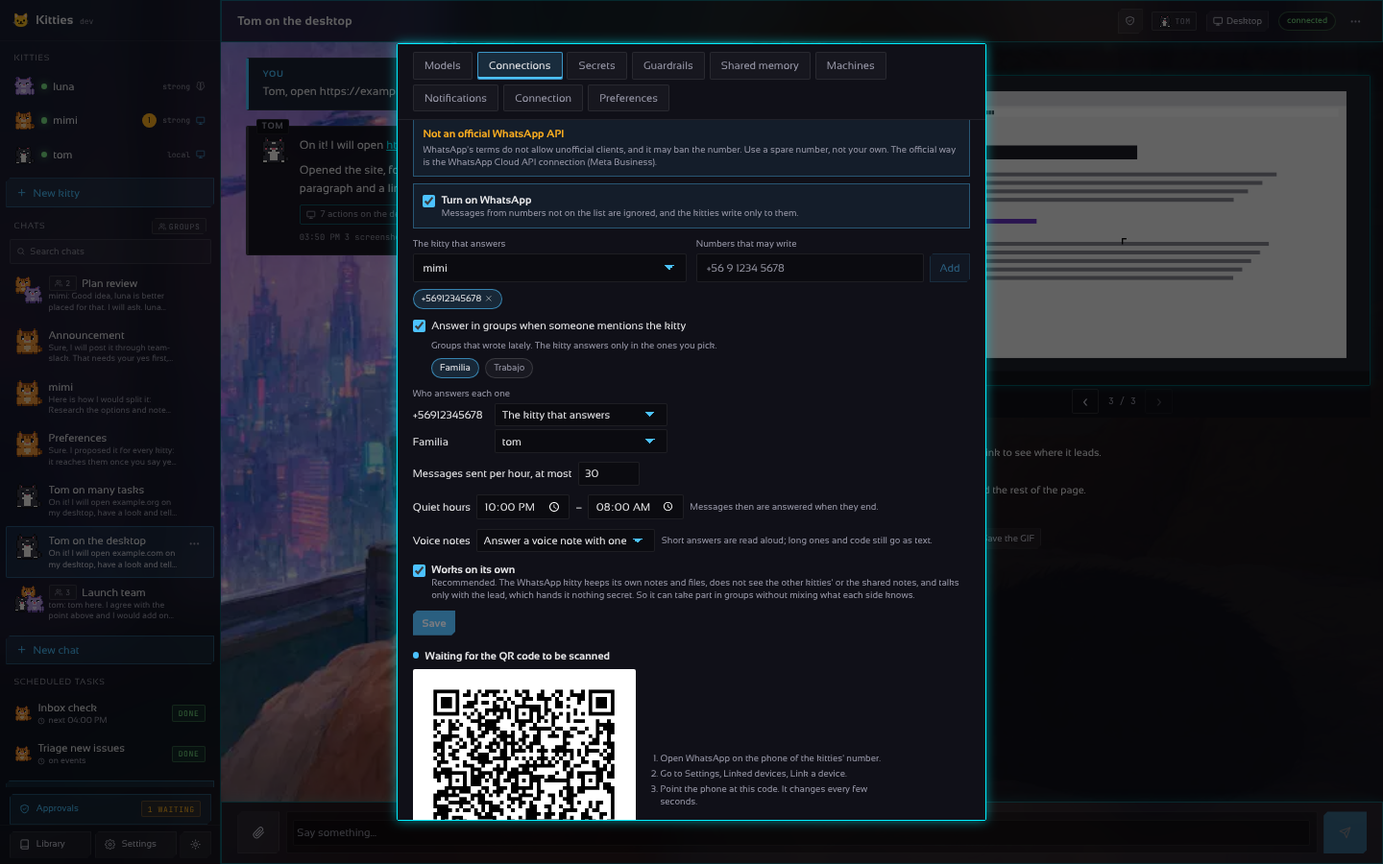
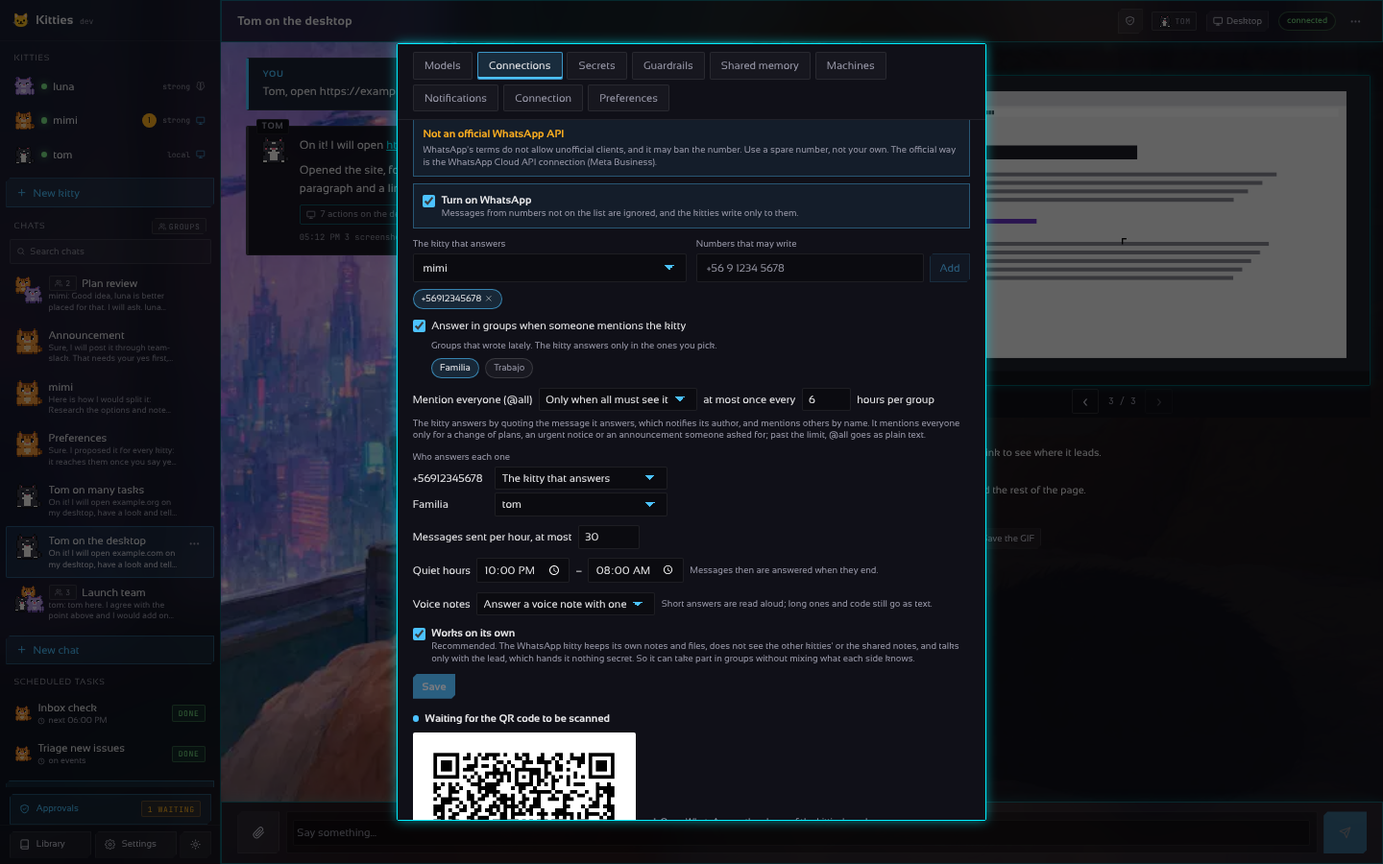
docs: explain WhatsApp group mentions (EN/ES, landing, screenshots)
Claude-Session: https://claude.ai/code/session_017Z7sUbBDLHT9VRhdSe2XVy

diff --git a/site/es/index.html b/site/es/index.html
@@ -62,8 +62,8 @@ claude mcp add --transport http --scope user kitties http://&lt;gateway&gt;:7488
   --header "Authorization: Bearer &lt;MCP token&gt;"</code></pre></div></section>
 <section id="lead" class="wrap"><h2>Un kitty dirige a los demás</h2><p class="lead">Haz principal a un kitty y pasa a ser tu contacto principal: le pides algo, reparte el trabajo entre los kitties más indicados para cada parte, junta sus respuestas (varios kitties a la vez, mostrando quién trabaja y quién espera) y te entrega un solo reporte; resume los reportes con un clic o cada día a la hora que elijas; para una tarea larga puede darle a un kitty más rondas, tokens o tiempo, solo para esa tarea o de forma permanente, con topes y, si quieres, solo con tu aprobación. Lo que los demás tienen que contarte (metas cumplidas o trabadas, ayuda que necesitan, una acción que espera tu sí, el resumen diario) te llega a través de él, en su hilo Reportes (un reporte por chat, sin repetir la misma noticia), que tiene su propio lugar en la barra lateral después de los chats, y a su nombre. Los demás le hacen caso primero y le consultan sus dudas; él les responde, y a ti te pregunta solo lo que no puede decidir, para luego pasarles tu respuesta. Como un elefante con peces dorados: él guarda el panorama completo y cada kitty recibe un encargo que se entiende solo. Los chats nuevos, WhatsApp y <code>kitties chat</code> van a él si no eliges otro kitty. Un clic en el cajón del kitty, <code>lead: true</code> en el YAML, <code>kitties lead &lt;nombre&gt;</code>, o Claude por MCP.</p>
 <div class="duo"><figure><img src="../img/lead.webp" alt="La pestaña Equipo del kitty principal: Resumir reportes, Abrir reportes, Dejar de ser principal, los encargos por día y por kitty" loading="lazy" width="1440" height="900"><figcaption>El principal, en su cajón</figcaption></figure><figure><img src="../img/lead-reports.webp" alt="El hilo Reportes del principal: mimi terminó una meta" loading="lazy" width="1440" height="900"><figcaption>Las novedades de los demás, en su hilo Reportes</figcaption></figure></div></section>
-<section id="whatsapp" class="wrap"><h2>Conversa con tus kitties por WhatsApp</h2><p class="lead">Dales a los kitties un número propio: vincula un teléfono de repuesto como en WhatsApp Web escaneando un código QR en Ajustes. Las personas que pongas en la lista conversan con un kitty desde WhatsApp, y los kitties les responden, "escribiendo…" mientras piensan. Responden en los grupos que elijas cuando los nombran, leen fotos, documentos, stickers y ubicaciones, escuchan notas de voz y responden con las suyas (texto a voz, cada kitty con su propia voz, en todas las respuestas o solo a las notas de voz), devuelven los archivos que hacen y reaccionan con emojis. Cada número o grupo puede tener su propio kitty, con un límite por hora y un horario de silencio para cuidar el número; lo que el límite retiene queda sellado y listado en Ajustes, para reenviarlo cuando haya espacio. Viene desactivado, la lista parte vacía y la sesión queda sellada con la llave del vault. No es una API oficial y WhatsApp puede bloquear el número, así que la primera vez que lo activas una pantalla de bienvenida te pide aceptar ese riesgo; la vía oficial es la conexión WhatsApp Cloud API. Cada mensaje le llega al kitty con quién lo escribió (nombre y número) y, si es una respuesta, de quién es el mensaje que responde, así que las personas de un grupo nunca se confunden entre sí ni contigo; tú nombras a tus contactos en Ajustes, y mientras tanto el kitty usa el nombre que se pusieron en WhatsApp. El kitty de WhatsApp trabaja por su cuenta, como un principal junto al principal: sus propias notas (también sobre las personas y grupos con que habla, las únicas que usa ahí) y sus propios archivos, sin notas compartidas, sin chats ni trabajo con otros kitties, y solo habla con el principal, que no le pasa nada secreto; desde un grupo puede consultarle al principal, solo si tú lo apruebas, y la respuesta sale solo con un segundo sí (o siempre, en un grupo de confianza). Así puede participar en grupos sin mezclar lo que sabe cada lado.</p>
-<div class="duo"><figure><img src="../img/whatsapp-welcome.webp" alt="La bienvenida de WhatsApp: no es una API oficial, un número de repuesto y una lista corta, la sesión sellada en el vault y el riesgo por aceptar" loading="lazy" width="1440" height="900"><figcaption>La primera vez: aceptar el riesgo</figcaption></figure><figure><img src="../img/whatsapp.webp" alt="Ajustes, WhatsApp conectado: notas de voz respondidas con notas de voz, el kitty de WhatsApp trabajando por su cuenta y los mensajes retenidos por el límite por hora" loading="lazy" width="1440" height="900"><figcaption>Notas de voz, un kitty por su cuenta y los mensajes que retuvo el límite por hora</figcaption></figure></div><div class="duo"><figure><img src="../img/whatsapp-senders.webp" alt="Un chat de grupo de WhatsApp: cada mensaje bajo el nombre y número de quien lo escribió, y una respuesta que muestra de quién es el mensaje que responde" loading="lazy" width="1440" height="900"><figcaption>Quién escribió cada mensaje, y a quién responde</figcaption></figure><figure><img src="../img/whatsapp-contacts.webp" alt="Ajustes, contactos de WhatsApp: el nombre con que el kitty lee a cada persona, con su número y el nombre que se pusieron" loading="lazy" width="1440" height="900"><figcaption>Nombra a tus contactos</figcaption></figure></div></section>
+<section id="whatsapp" class="wrap"><h2>Conversa con tus kitties por WhatsApp</h2><p class="lead">Dales a los kitties un número propio: vincula un teléfono de repuesto como en WhatsApp Web escaneando un código QR en Ajustes. Las personas que pongas en la lista conversan con un kitty desde WhatsApp, y los kitties les responden, "escribiendo…" mientras piensan. Responden en los grupos que elijas cuando los nombran, leen fotos, documentos, stickers y ubicaciones, escuchan notas de voz y responden con las suyas (texto a voz, cada kitty con su propia voz, en todas las respuestas o solo a las notas de voz), devuelven los archivos que hacen y reaccionan con emojis. Cada número o grupo puede tener su propio kitty, con un límite por hora y un horario de silencio para cuidar el número; lo que el límite retiene queda sellado y listado en Ajustes, para reenviarlo cuando haya espacio. Viene desactivado, la lista parte vacía y la sesión queda sellada con la llave del vault. No es una API oficial y WhatsApp puede bloquear el número, así que la primera vez que lo activas una pantalla de bienvenida te pide aceptar ese riesgo; la vía oficial es la conexión WhatsApp Cloud API. Cada mensaje le llega al kitty con quién lo escribió (nombre y número) y, si es una respuesta, de quién es el mensaje que responde, así que las personas de un grupo nunca se confunden entre sí ni contigo; tú nombras a tus contactos en Ajustes, y mientras tanto el kitty usa el nombre que se pusieron en WhatsApp. El kitty de WhatsApp trabaja por su cuenta, como un principal junto al principal: sus propias notas (también sobre las personas y grupos con que habla, las únicas que usa ahí) y sus propios archivos, sin notas compartidas, sin chats ni trabajo con otros kitties, y solo habla con el principal, que no le pasa nada secreto; desde un grupo puede consultarle al principal, solo si tú lo apruebas, y la respuesta sale solo con un segundo sí (o siempre, en un grupo de confianza). Así puede participar en grupos sin mezclar lo que sabe cada lado. En un grupo responde citando el mensaje al que contesta, así a su autor le llega la notificación, y convierte <code>@Ana</code> en una mención real; a todos (<code>@todos</code>) los menciona solo cuando todos deben verlo, como máximo una vez cada pocas horas por grupo, o nunca si así lo eliges.</p>
+<div class="duo"><figure><img src="../img/whatsapp-welcome.webp" alt="La bienvenida de WhatsApp: no es una API oficial, un número de repuesto y una lista corta, la sesión sellada en el vault y el riesgo por aceptar" loading="lazy" width="1440" height="900"><figcaption>La primera vez: aceptar el riesgo</figcaption></figure><figure><img src="../img/whatsapp.webp" alt="Ajustes, WhatsApp conectado: notas de voz respondidas con notas de voz, el kitty de WhatsApp trabajando por su cuenta y los mensajes retenidos por el límite por hora" loading="lazy" width="1440" height="900"><figcaption>Notas de voz, un kitty por su cuenta y los mensajes que retuvo el límite por hora</figcaption></figure></div><div class="duo"><figure><img src="../img/whatsapp-senders.webp" alt="Un chat de grupo de WhatsApp: cada mensaje bajo el nombre y número de quien lo escribió, y una respuesta que muestra de quién es el mensaje que responde" loading="lazy" width="1440" height="900"><figcaption>Quién escribió cada mensaje, y a quién responde</figcaption></figure><figure><img src="../img/whatsapp-contacts.webp" alt="Ajustes, contactos de WhatsApp: el nombre con que el kitty lee a cada persona, con su número y el nombre que se pusieron" loading="lazy" width="1440" height="900"><figcaption>Nombra a tus contactos</figcaption></figure></div><figure class="one"><img src="../img/whatsapp-mentions.webp" alt="Ajustes, WhatsApp: mencionar a todos en un grupo solo cuando todos deben verlo, como máximo una vez cada pocas horas" loading="lazy" width="1440" height="900"><figcaption>@todos solo cuando hace falta</figcaption></figure></section>
 <section id="guardrails" class="wrap"><h2>Protecciones cuando un kitty responde a otros</h2><p class="lead">Un kitty que conversa con tus contactos y grupos de WhatsApp, o en un chat que marques como público, queda protegido por defecto. Ahí no tiene escritorio, archivos, secretos guardados, notas sobre ti ni otros kitties, solo las conexiones que elijas. Todo lo que dice se revisa antes de salir: se quitan los secretos que Kitties conoce (claves, tokens, la bóveda), todo lo que parece una credencial, las rutas y direcciones internas y, salvo que lo desactives, los datos personales que la otra persona no entregó. Lo que escriben otros llega al modelo como dato, nunca como instrucción; un mensaje que intenta que el kitty rompa sus reglas recibe un no breve, y cada chat tiene un límite de mensajes por hora. Tus propios números conservan el kitty completo, y Ajustes muestra lo que las protecciones quitaron o negaron, nunca el secreto.</p>
 <figure class="one"><img src="../img/guardrails.webp" alt="Ajustes, Protecciones: activas por defecto, datos personales quitados, intentos sin respuesta, mensajes por hora, las conexiones que puede usar un kitty expuesto, tus números y el registro" loading="lazy" width="1440" height="900"><figcaption>Ajustes → Protecciones</figcaption></figure></section>
 <section class="wrap how"><h2>Elige un alma. Elige un cerebro. Y listo.</h2><ol><li><span>1</span><h3>Alma</h3><p>Una personalidad en un pequeño YAML. Tú la moldeas.</p></li><li><span>2</span><h3>Cerebro</h3><p>OpenAI, Anthropic, Gemini, Ollama, Groq, OpenRouter, DeepSeek, Qwen, Mistral, Copilot o cualquier servidor compatible.</p></li><li><span>3</span><h3>Cuerpo</h3><p>Un contenedor Docker con escritorio sin pantalla, navegador y las herramientas habituales.</p></li></ol></section>

diff --git a/site/index.html b/site/index.html
@@ -63,8 +63,8 @@ claude mcp add --transport http --scope user kitties http://&lt;gateway&gt;:7488
   --header "Authorization: Bearer &lt;MCP token&gt;"</code></pre></div></section>
 <section id="lead" class="wrap"><h2>One kitty leads the others</h2><p class="lead">Make one kitty the lead and it becomes your main contact: you ask it, it splits the work among the kitties best placed for each piece, gathers their answers (several kitties at the same time, showing who works and who waits) and gives you one report; it sums the reports up with one click or every day at the hour you choose; for a long task it can give a kitty more rounds, tokens or time, for that task alone or for good, within caps and, if you want, only with your yes. What the others have to tell you (goals done or stuck, help they need, an action waiting for a yes, the daily summary) reaches you through it, in its Reports thread (one report per chat, not the same news twice), which has its own place in the sidebar after the chats, and in its name. The others follow it first and ask it their doubts; it answers them, and asks you only what it cannot decide, then passes your answer on. Like an elephant with goldfish: it keeps the whole picture, and each kitty gets a task that stands on its own. New chats, WhatsApp and <code>kitties chat</code> go to it unless you pick another kitty. One click in a kitty’s drawer, <code>lead: true</code> in the YAML, <code>kitties lead &lt;name&gt;</code>, or Claude through MCP.</p>
 <div class="duo"><figure><img src="img/lead.webp" alt="The lead kitty's Team tab: Summarize reports, Open reports, Stop leading, the hand-overs per day and per kitty" loading="lazy" width="1440" height="900"><figcaption>The lead, in its drawer</figcaption></figure><figure><img src="img/lead-reports.webp" alt="The lead's Reports thread: mimi finished a goal" loading="lazy" width="1440" height="900"><figcaption>The others' news, in its Reports thread</figcaption></figure></div></section>
-<section id="whatsapp" class="wrap"><h2>Talk to your kitties on WhatsApp</h2><p class="lead">Give the kitties a number of their own: link a spare phone as on WhatsApp Web by scanning a QR code in Settings. The people you put on the list chat with a kitty from WhatsApp, and the kitties write back to them, "typing…" while they think. They answer in the groups you pick when mentioned, read pictures, documents, stickers and locations, hear voice notes and answer with their own (text to speech, each kitty with its own voice, for every answer or only to voice notes), send back the files they make and react with emoji. Each number or group can have its own kitty, with an hourly limit and quiet hours to keep the number safe; what the limit holds back is kept sealed and listed in Settings, to resend when there is room. Off by default, the list starts empty and the session is sealed with the vault's key. It is not an official API and WhatsApp may ban the number, so the first time you turn it on a welcome screen asks you to accept that risk; the official way is the WhatsApp Cloud API connection. Each message reaches the kitty with who wrote it (name and number) and, for a reply, whose message it answers, so the people of a group are never taken for one another or for you; you name your contacts in Settings, and until then the kitty uses the name they gave themselves on WhatsApp. The WhatsApp kitty works on its own, as a principal beside the lead: its own notes (including notes about the people and groups it talks with, the only ones it uses there) and its own files, no shared notes, no chats or work with other kitties, and only the lead to talk to, which hands it nothing secret; from a group it may ask the lead, only once you say yes, and its answer goes out only after a second yes (or always, in a group you trust). So it can take part in groups without mixing what each side knows.</p>
-<div class="duo"><figure><img src="img/whatsapp-welcome.webp" alt="The WhatsApp welcome: not an official API, a spare number and a short list, the session sealed in the vault, and the risk to accept" loading="lazy" width="1440" height="900"><figcaption>The first time: accept the risk</figcaption></figure><figure><img src="img/whatsapp.webp" alt="Settings, WhatsApp connected: voice notes answered with voice notes, the WhatsApp kitty working on its own and the messages held by the hourly limit" loading="lazy" width="1440" height="900"><figcaption>Voice notes, a kitty on its own and the messages the hourly limit held</figcaption></figure></div><div class="duo"><figure><img src="img/whatsapp-senders.webp" alt="A WhatsApp group chat: each message under the name and number of who wrote it, and a reply showing whose message it answers" loading="lazy" width="1440" height="900"><figcaption>Who wrote each message, and whose message a reply answers</figcaption></figure><figure><img src="img/whatsapp-contacts.webp" alt="Settings, WhatsApp contacts: the name the kitty reads each person by, with their number and the name they gave themselves" loading="lazy" width="1440" height="900"><figcaption>Name your contacts</figcaption></figure></div></section>
+<section id="whatsapp" class="wrap"><h2>Talk to your kitties on WhatsApp</h2><p class="lead">Give the kitties a number of their own: link a spare phone as on WhatsApp Web by scanning a QR code in Settings. The people you put on the list chat with a kitty from WhatsApp, and the kitties write back to them, "typing…" while they think. They answer in the groups you pick when mentioned, read pictures, documents, stickers and locations, hear voice notes and answer with their own (text to speech, each kitty with its own voice, for every answer or only to voice notes), send back the files they make and react with emoji. Each number or group can have its own kitty, with an hourly limit and quiet hours to keep the number safe; what the limit holds back is kept sealed and listed in Settings, to resend when there is room. Off by default, the list starts empty and the session is sealed with the vault's key. It is not an official API and WhatsApp may ban the number, so the first time you turn it on a welcome screen asks you to accept that risk; the official way is the WhatsApp Cloud API connection. Each message reaches the kitty with who wrote it (name and number) and, for a reply, whose message it answers, so the people of a group are never taken for one another or for you; you name your contacts in Settings, and until then the kitty uses the name they gave themselves on WhatsApp. The WhatsApp kitty works on its own, as a principal beside the lead: its own notes (including notes about the people and groups it talks with, the only ones it uses there) and its own files, no shared notes, no chats or work with other kitties, and only the lead to talk to, which hands it nothing secret; from a group it may ask the lead, only once you say yes, and its answer goes out only after a second yes (or always, in a group you trust). So it can take part in groups without mixing what each side knows. In a group it answers by quoting the message it answers, so its author is notified, and turns <code>@Ana</code> into a real mention; it mentions everyone (<code>@all</code>) only when all must see it, at most once every few hours per group, or never if you say so.</p>
+<div class="duo"><figure><img src="img/whatsapp-welcome.webp" alt="The WhatsApp welcome: not an official API, a spare number and a short list, the session sealed in the vault, and the risk to accept" loading="lazy" width="1440" height="900"><figcaption>The first time: accept the risk</figcaption></figure><figure><img src="img/whatsapp.webp" alt="Settings, WhatsApp connected: voice notes answered with voice notes, the WhatsApp kitty working on its own and the messages held by the hourly limit" loading="lazy" width="1440" height="900"><figcaption>Voice notes, a kitty on its own and the messages the hourly limit held</figcaption></figure></div><div class="duo"><figure><img src="img/whatsapp-senders.webp" alt="A WhatsApp group chat: each message under the name and number of who wrote it, and a reply showing whose message it answers" loading="lazy" width="1440" height="900"><figcaption>Who wrote each message, and whose message a reply answers</figcaption></figure><figure><img src="img/whatsapp-contacts.webp" alt="Settings, WhatsApp contacts: the name the kitty reads each person by, with their number and the name they gave themselves" loading="lazy" width="1440" height="900"><figcaption>Name your contacts</figcaption></figure></div><figure class="one"><img src="img/whatsapp-mentions.webp" alt="Settings, WhatsApp: mention everyone in a group only when all must see it, at most once every few hours" loading="lazy" width="1440" height="900"><figcaption>@all only when it is needed</figcaption></figure></section>
 <section id="guardrails" class="wrap"><h2>Guardrails when a kitty answers others</h2><p class="lead">A kitty that talks to your WhatsApp contacts and groups, or in a chat you mark public, is guarded by default. There it has no desktop, files, saved secrets, notes about you or other kitties, only the connections you pick. Everything it says is checked before it leaves: the secrets Kitties knows (keys, tokens, the vault), anything shaped like a credential, internal paths and addresses and, unless you turn it off, personal data the other side did not give are taken out. What others write reaches the model as data, never as instructions; a message that tries to make the kitty break its rules gets a short no, and each chat has a limit of messages per hour. Your own numbers keep the whole kitty, and Settings shows what the guardrails took out or refused, never the secret itself.</p>
 <figure class="one"><img src="img/guardrails.webp" alt="Settings, Guardrails: on by default, personal data taken out, attempts not answered, messages per hour, the connections an exposed kitty may use, your own numbers and the record" loading="lazy" width="1440" height="900"><figcaption>Settings → Guardrails</figcaption></figure></section>
 <section class="wrap how"><h2>Pick a soul. Pick a brain. Press go.</h2><ol><li><span>1</span><h3>Soul</h3><p>A personality in a small YAML file. Yours to shape.</p></li><li><span>2</span><h3>Brain</h3><p>OpenAI, Anthropic, Gemini, Ollama, Groq, OpenRouter, DeepSeek, Qwen, Mistral, Copilot or any compatible server.</p></li><li><span>3</span><h3>Body</h3><p>A Docker container with a headless desktop, browser and the usual tools.</p></li></ol></section>

diff --git a/docs/WHATSAPP.es.md b/docs/WHATSAPP.es.md
@@ -111,6 +111,22 @@ olvida la sesión.
   de sus mensajes o nombrando al kitty. Cada grupo tiene su chat (`WhatsApp group: <nombre>`), con
   cada mensaje bajo el nombre y número de quien lo escribió; la respuesta va al grupo. Una mención en un grupo que no
   está en la lista se ignora y se cuenta.
+- **Menciones en grupos (@).** La respuesta **cita** el mensaje al que contesta (también el
+  resultado de una tarea larga, que llega después de mensajes más nuevos), así el grupo ve para
+  quién es y WhatsApp notifica a su autor. Cuando el kitty escribe `@Ana` (alguien que escribió en
+  ese grupo) o `@+56912345678`, el puente lo convierte en una mención real de WhatsApp, que le
+  notifica aunque haya silenciado el grupo; un nombre que comparten dos miembros, o alguien que
+  nunca escribió ahí, no se adivina (y nunca se muestra al grupo un número de otro chat). A
+  **todos** (`@todos`, `@all`, `@everyone`) se les menciona solo **cuando hace falta**: el kitty
+  tiene instrucción de guardarlo para un cambio de planes, un aviso urgente o un anuncio que alguien
+  pidió, nunca para una respuesta normal, y funciona **como máximo una vez cada 4 horas por
+  grupo** (Ajustes › Conexiones › WhatsApp › **Mencionar a todos**: *Solo cuando todos deben verlo*
+  o *Nunca*, y las horas). Pasado el límite, o si está apagado, `@todos` va como texto normal y al
+  kitty se le dice por qué. En los grupos que ocultan números (los LID de WhatsApp), quién escribió,
+  de quién es el mensaje que cita una respuesta y a quién menciona se leen de los miembros del
+  grupo cuando el teléfono aún no dio sus números, así el kitty siempre sabe quién escribe.
+
+  ![Mencionar a todos en Ajustes: solo cuando todos deben verlo, como máximo una vez cada pocas horas](screenshots/86-whatsapp-mention-all.png)
 - **Fotos, videos, documentos y audios.** Le llegan al kitty como archivos del chat (hasta 25 MB
   cada uno), con su pie de foto como texto. Una **nota de voz** se pasa a texto con la API de voz
   (Whisper) de un perfil `openai` o `groq` con llave; sin uno llega como archivo de audio.
@@ -217,6 +233,8 @@ whatsapp:
   speak: ""                      # el perfil openai que lee las respuestas; vacío: el primero; off: ninguno
   speak_voice: nova              # su voz (alloy, nova, shimmer, …); vacío: alloy
   share_with_team: false         # true: los kitties de WhatsApp trabajan con los demás (por defecto: por su cuenta)
+  mention_all: needed            # @todos en grupos: needed (solo cuando todos deben verlo, por defecto) u off
+  mention_all_hours: 4           # horas mínimas entre dos menciones a todos en un grupo (0: 4)
 ```
 
 El código QR se sigue escaneando desde Ajustes, o se lee con `GET /v1/whatsapp` (`qr_png`).
@@ -228,7 +246,7 @@ El código QR se sigue escaneando desde Ajustes, o se lee con `GET /v1/whatsapp`
 | Encendido o no, la lista, el kitty, el chat de cada número | `<data>/whatsapp/settings.json` | modo 0600, sin secretos |
 | Los mensajes que esperan el fin del silencio | `<data>/whatsapp/queue.bin` | **sellados** como la sesión; se borran al responderlos |
 | Los mensajes retenidos por el límite por hora (los últimos 50) | `<data>/whatsapp/held.bin` | **sellados** como la sesión; se borran al reenviarlos o vaciar la lista |
-| Los contactos (número, tu nombre para ellos, su push name, cuándo se vieron) | `<data>/whatsapp/contacts.bin` | **sellados** como la sesión; 1000 como máximo |
+| Los contactos (número, tu nombre para ellos, su push name, cuándo se vieron, los grupos donde escribieron) | `<data>/whatsapp/contacts.bin` | **sellados** como la sesión; 1000 como máximo |
 | La sesión del dispositivo vinculado (sus llaves, las sesiones Signal, los contactos) | `<data>/whatsapp/session.bin` | **sellada** con la llave del vault (AES-256-GCM, atada a su uso); nunca en claro |
 
 La sesión es el estado de la librería guardado en memoria y sellado entero: el gateway no usa un

diff --git a/docs/WHATSAPP.md b/docs/WHATSAPP.md
@@ -106,6 +106,21 @@ session, without a new code. **Unlink** removes the device from the phone and fo
   messages, or naming the kitty. Each group has its own chat (`WhatsApp group: <name>`), with every
   message under its author's name and number; the answer goes to the group. A mention in a group not on the list is
   ignored and counted.
+- **Mentions in groups (@).** The answer **quotes** the message it answers (also the result of a
+  long task, which comes after newer messages), so the group sees whom it is for and WhatsApp
+  notifies its author. When the kitty writes `@Ana` (someone who wrote in that group) or
+  `@+56912345678`, the bridge turns it into a real WhatsApp mention, which notifies them even if
+  they muted the group; a name two members share, or someone who never wrote there, is not guessed
+  (and a number from another chat is never shown to the group). **Everyone** (`@all`, `@todos`,
+  `@everyone`) is mentioned only **when it is needed**: the kitty is told to keep it for a change of
+  plans, an urgent notice or an announcement someone asked for, never an ordinary answer, and it
+  works **at most once every 4 hours per group** (Settings › Connections › WhatsApp › **Mention
+  everyone**: *Only when all must see it* or *Never*, and the hours). Past the limit, or with it
+  off, `@all` goes as plain text and the kitty is told why. In groups that hide numbers (WhatsApp's
+  LIDs), who wrote, whose message a reply quotes and whom it mentions are read from the group's
+  members when the phone has not told their numbers yet, so the kitty always knows who writes.
+
+  ![Mention everyone in Settings: only when all must see it, at most once every few hours](screenshots/86-whatsapp-mention-all.png)
 - **Pictures, videos, documents and audio.** They reach the kitty as files of the chat (up to 25 MB
   each), with their caption as the text. A **voice note** is turned into text with the speech API
   (Whisper) of an `openai` or `groq` profile with a key; without one it comes as an audio file.
@@ -207,6 +222,8 @@ whatsapp:
   speak: ""                      # the openai profile that reads answers aloud; empty: the first; off: none
   speak_voice: nova              # its voice (alloy, nova, shimmer, …); empty: alloy
   share_with_team: false         # true: the WhatsApp kitties work with the others (default: on their own)
+  mention_all: needed            # @all in groups: needed (only when all must see it, the default) or off
+  mention_all_hours: 4           # least hours between two mentions of everyone in a group (0: 4)
 ```
 
 The QR code is still scanned from Settings, or read with `GET /v1/whatsapp` (`qr_png`).
@@ -218,7 +235,7 @@ The QR code is still scanned from Settings, or read with `GET /v1/whatsapp` (`qr
 | On or off, the list, the kitty, the chat of each number | `<data>/whatsapp/settings.json` | mode 0600, no secrets |
 | The messages waiting for the quiet hours to end | `<data>/whatsapp/queue.bin` | **sealed** like the session; gone once they are answered |
 | The messages held by the hourly limit (the last 50) | `<data>/whatsapp/held.bin` | **sealed** like the session; gone when resent or cleared |
-| The contacts (number, your name for them, their push name, when last seen) | `<data>/whatsapp/contacts.bin` | **sealed** like the session; at most 1000 |
+| The contacts (number, your name for them, their push name, when last seen, the groups they wrote in) | `<data>/whatsapp/contacts.bin` | **sealed** like the session; at most 1000 |
 | The session of the linked device (its keys, the Signal sessions, the contacts) | `<data>/whatsapp/session.bin` | **sealed** with the vault's key (AES-256-GCM, bound to its use); never in the clear |
 
 The session is a blob of the library's state kept in memory and sealed as a whole: the gateway uses
